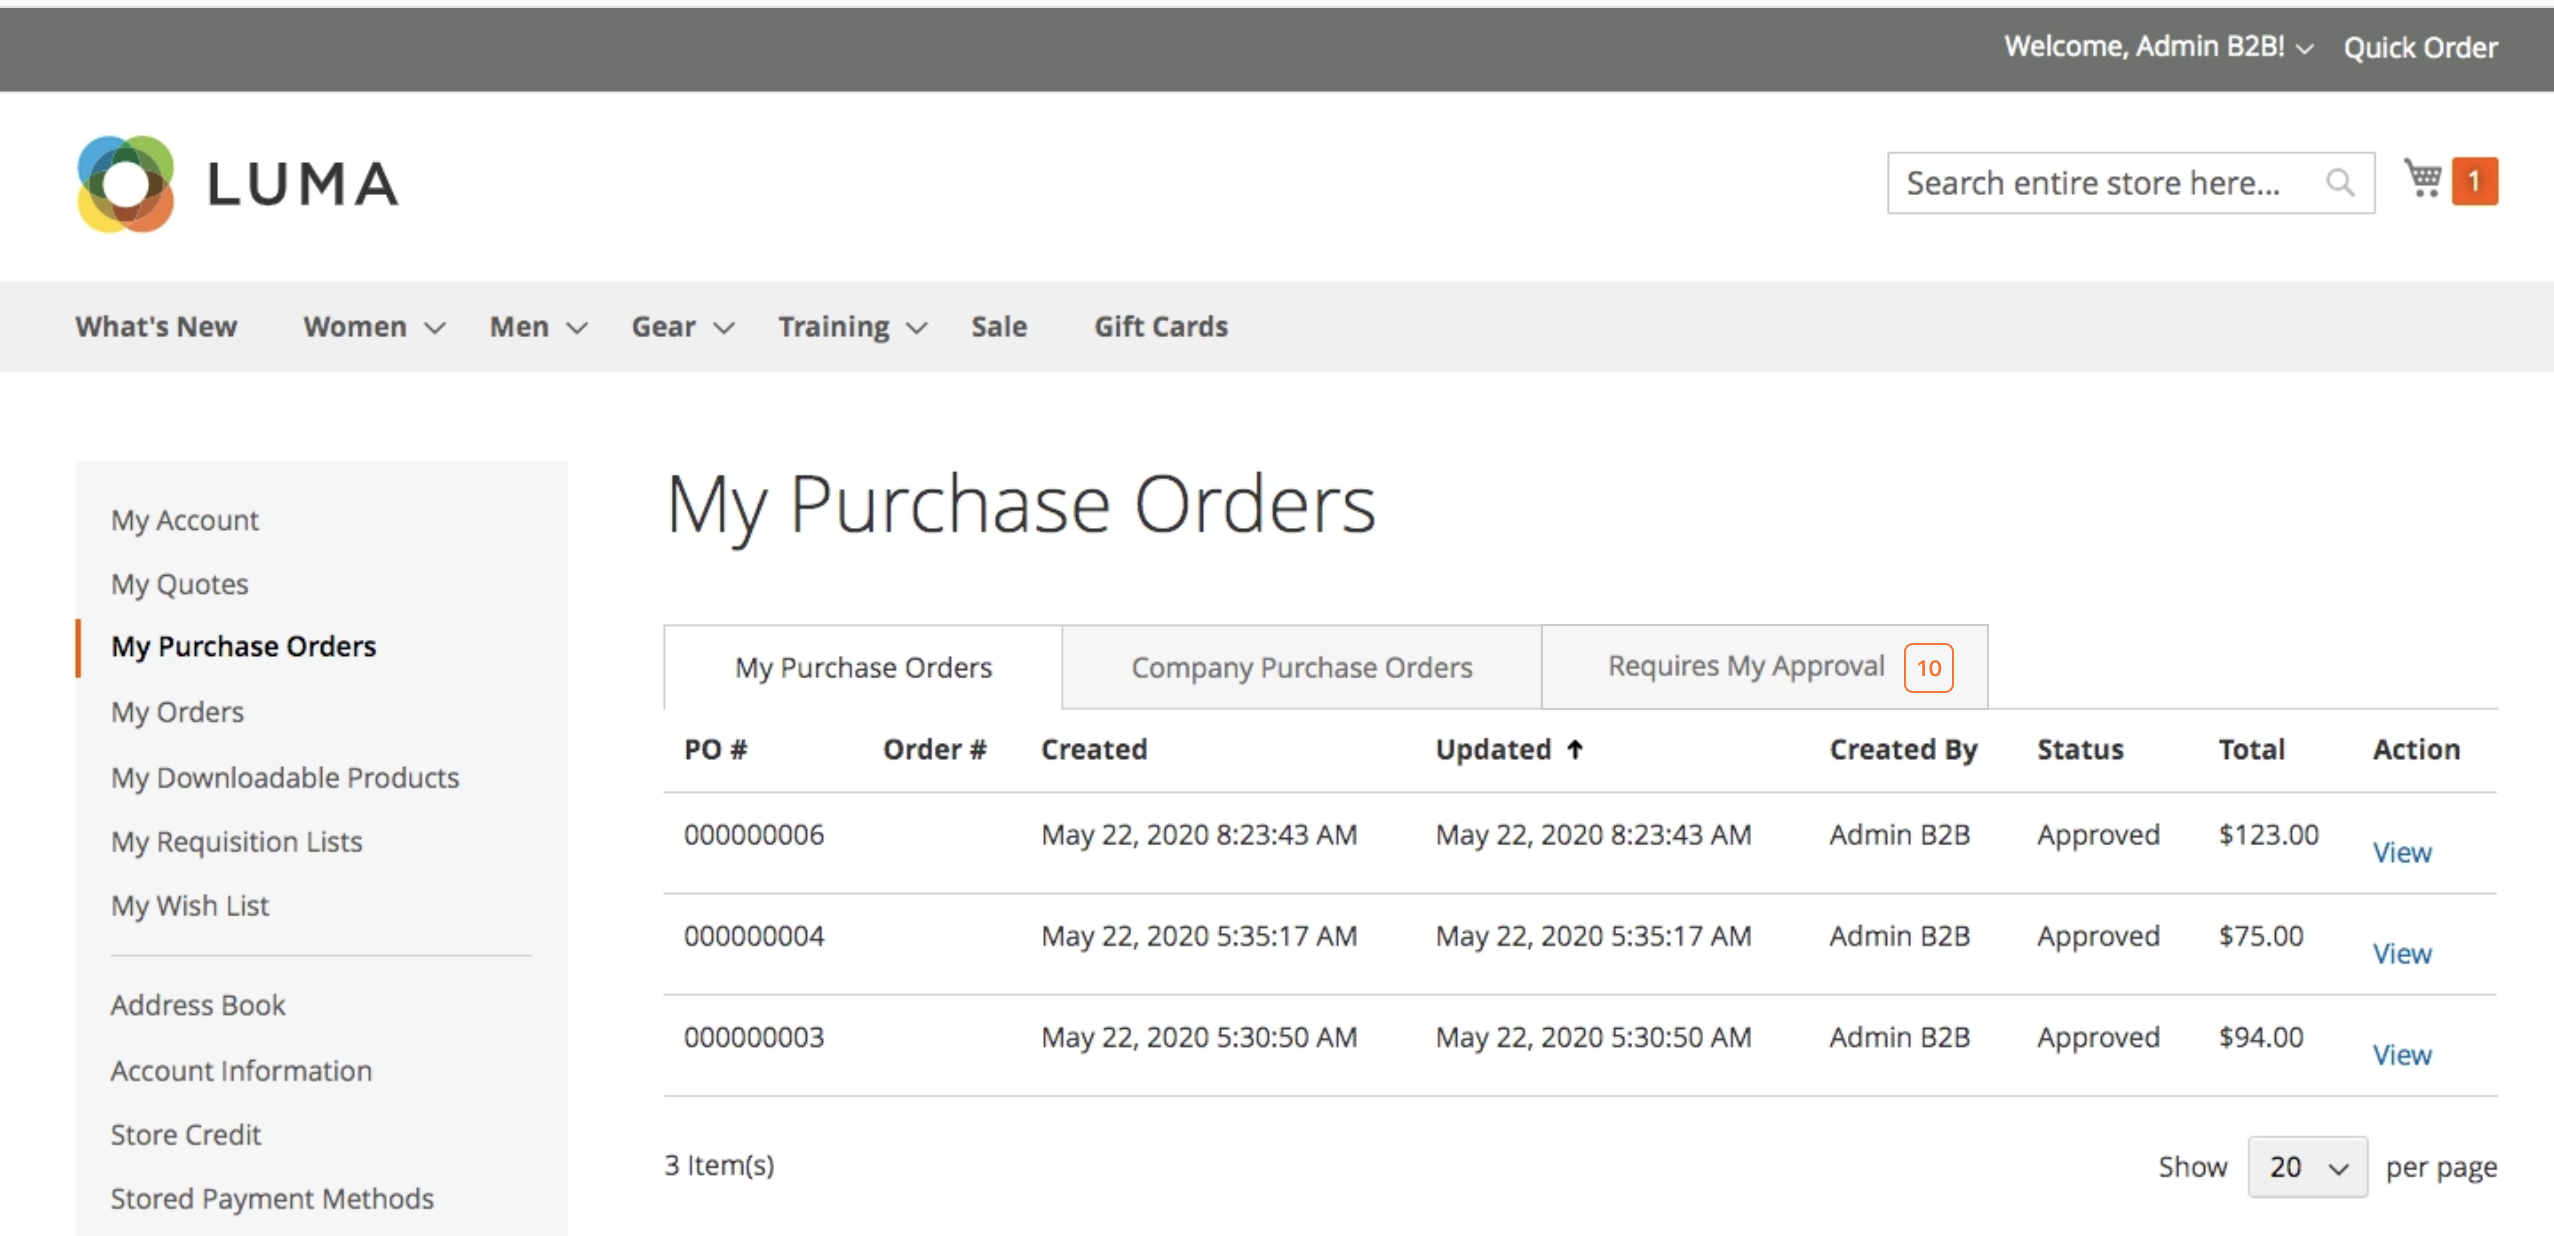
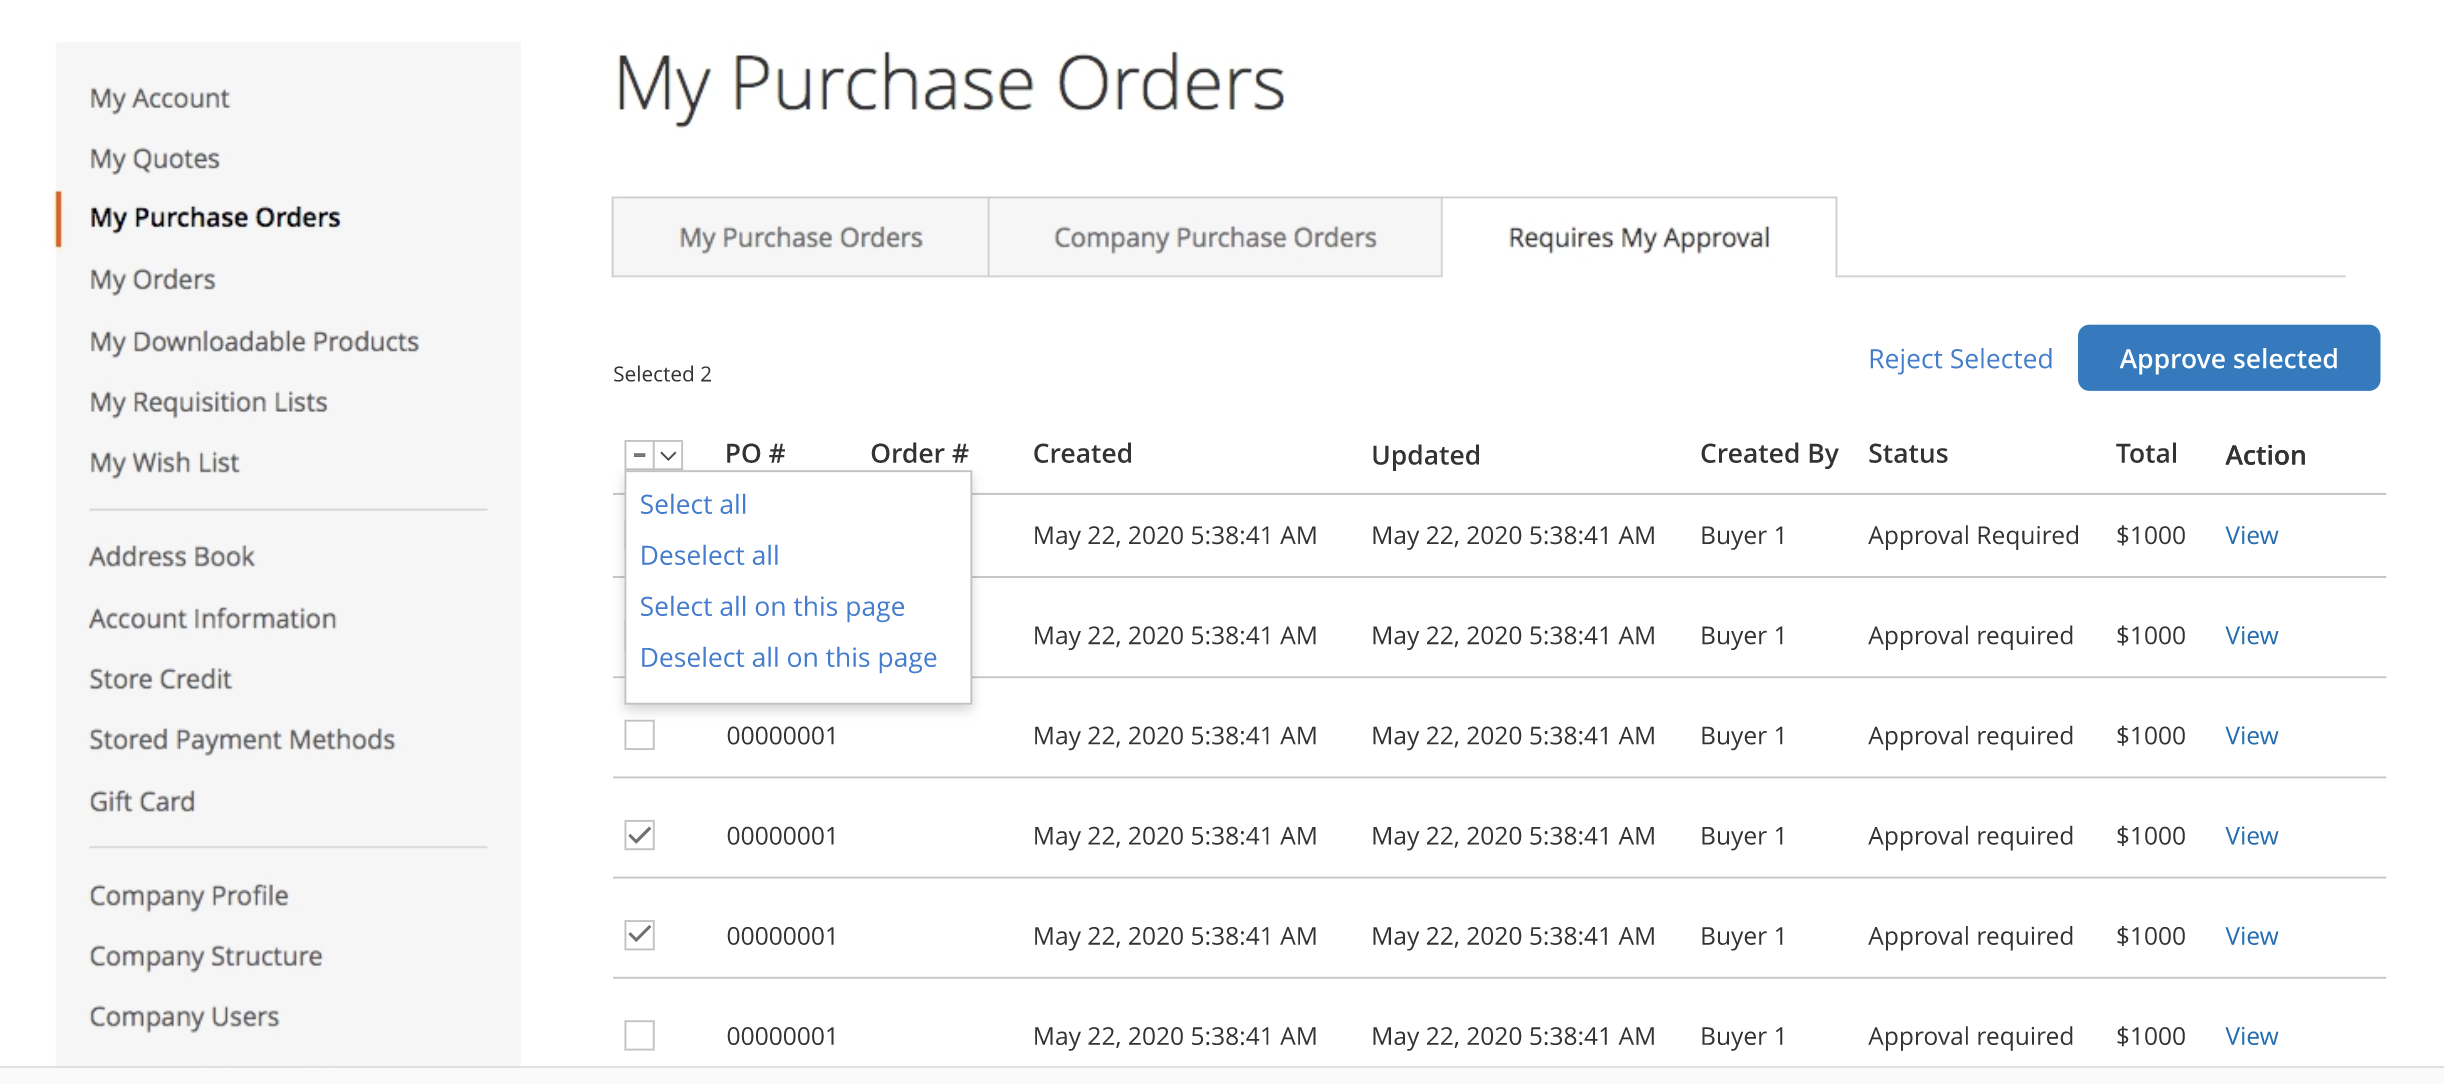
Updates to Approval and POs

diff --git a/src/customers/account-dashboard-my-purchase-orders.md b/src/customers/account-dashboard-my-purchase-orders.md
@@ -2,7 +2,7 @@
 title: My Purchase Orders
 ---
 
-When Purchase Orders are enabled for a company, all orders are automatically created as Purchase Orders (PO). Company users with purchase order permissions can create, edit, and delete POs that they create, as well as POs created by subordinate users.
+When Purchase Orders are enabled for a company, all orders are automatically created as Purchase Orders (PO). Company users with proper permissions can create, edit, and delete POs that they create, as well as POs created by subordinate users.
 
 While logged into the store, click **My Purchase Orders** in left panel.
 
@@ -25,6 +25,17 @@ Purchase Orders create a _snapshot_ of item prices, discounts, and shipping pric
 
 {:.bs-callout-warning}
 If an item in a purchase order is out-of-stock, or has insufficient quantity available, when the purchase order is converted into an actual order, an error will occur. If backorders are enabled, the order will be processed normally.
+
+## Bulk approval/rejection
+
+As of Magneto 2.4.1, approvers may approve or reject mutliple purchase orders at once. 
+
+1. On the _My Purchase Order_ page, go to the Requires My Approval tab.
+1. Using the checkboxes, select the purchase orders you wish to approve or reject.
+1. Click the <span class="btn">Approve Selected</span> or the <span class="btn">Reject Selected</span> button.
+
+You can only select purchase orders on which you can take an action. Others are grayed out.
+Company Administrators can make bulk approvals or rejections for any active Purchase Orders in their Company.
 
 ## Create a new purchase order from existing purchase order
 

diff --git a/src/customers/account-dashboard-approval-rules.md b/src/customers/account-dashboard-approval-rules.md
@@ -17,9 +17,12 @@ To access the approval rules for your company, click **Approval Rules** in the l
 ![]({% link images/images-b2b/storefront-approval-rules.png %}){: .zoom}
 _Company Approval Rules_
 
-If no rules have been created, the list displays "We could not find any records." For the listed rules, you can click **Edit** to enable or disable a rule.
+Depending on the company role and permissions, users may have the option to Edit, Delete, or View approval rules.
 
 ## Create an approval rule
+
+![]({% link images/images-b2b/storefront-create-approval-rule.png %}){: .zoom}
+_Create a new Approval Rules_
 
 1. Click <span class="btn">Add New Rule<span> to create a new rule.
 
